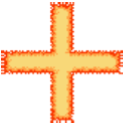
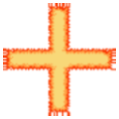
Add files via upload

Changed region(s): [[0.0, 0.0, 1.0, 1.0]]

diff --git a/Juego.cpp b/Juego.cpp
@@ -10,6 +10,11 @@ Juego::Juego()
 	_fondo.setTexture(_txtFondo);
 	//_fondo.setOrigin(_fondo.getGlobalBounds().width / 2, _fondo.getGlobalBounds().height / 2);
 	_fondo.setPosition(0, 0);
+	_txtFondoGameOver.loadFromFile("gameOver.jpg");
+	_fondoGameOver.setTexture(_txtFondoGameOver);
+
+	_fuegosV[0].rotarVertical();
+	_fuegosV[1].rotarVertical();
 
 	Enemigo* _enemigo1 = new Enemigo;
 	Enemigo* _enemigo2 = new Enemigo;
@@ -18,6 +23,7 @@ Juego::Juego()
 	_enemigos.push_back(*_enemigo1);
 	_enemigos.push_back(*_enemigo2);
 	_enemigos.push_back(*_enemigo3);
+
 	_vidas = 3;
 
 	Player* _player1 = new Player;
@@ -34,7 +40,7 @@ Juego::Juego()
 	_timer2 = 0;
 	_mapa1 = new Mapa;
 	randomNumero = 4;
-	_contadorCrear = 0;
+	_contadorCrear = 0;			//contar muerte de pj
 
 	_dosBombas = false;
 	_timerBoostBomba = 0;
@@ -62,11 +68,12 @@ void Juego::gamePlay()
 				_ventana1->close();
 			}
 		}
-		if (_victoria == true) {
+		/*if (_victoria == true) {
 			_ventana1->close();
-		}
+		}*/
 		_tiempoLimite--;
 		//CMD
+
 		list<Player>::iterator play;
 		for (play = _players.begin(); play != _players.end(); ++play) {
 			if (!play->getMuriendo()) {
@@ -79,7 +86,8 @@ void Juego::gamePlay()
 		}
 		//fin de las 3 vidas y partida, luego cambiar
 		if (_contadorCrear == 5) {
-			_ventana1->close();
+			//va pantalla de game over
+			_gameOver = true;
 		}
 		//crea nuevo pj, nueva vida en esquina
 		if (_contadorCrear % 2 != 0) {
@@ -96,10 +104,10 @@ void Juego::gamePlay()
 			}
 		}
 		_timerVelocidad--;
-		//Colision con boosterBOmba (20 seg)
 		if (_timerVelocidad <= 0) {
 			_acelerar = false;
 		}
+		//Colision con boosterBOmba (20 seg)
 		for (play = _players.begin(); play != _players.end(); ++play) {
 			if (_mapa1->comprobarColisionBoostBomba(*play)) {
 				_timerBoostBomba = 20 * 60;
@@ -139,6 +147,9 @@ void Juego::gamePlay()
 			if (_fuegos[i].getEstado()) {
 				_mapa1->comprobarColisionDestruir(_fuegos[i]);
 			}
+			if (_fuegosV[i].getEstado()) {
+				_mapa1->comprobarColisionDestruir(_fuegosV[i]);
+			}
 		}
 
 		//poner bomba, solo si no esta muriendo y naturalmente no muerto
@@ -174,20 +185,22 @@ void Juego::gamePlay()
 				_bombas[i].crearExplotar(estado);
 				_fuegos[i].setEstado(estado);
 				_fuegos[i].setSpritePosition(_bombas[i].getSprite().getPosition());
+				_fuegosV[i].setEstado(estado);
+				_fuegosV[i].setSpritePosition(_bombas[i].getSprite().getPosition());
 			}
 		}
 		for (int i = 0; i < 2; i++) {
-			if (_fuegos[i].getEstado()) {
+			if (_fuegos[i].getEstado() && _fuegosV[i].getEstado()) {
 				_fuegos[i].crearLlama();
+				_fuegosV[i].crearLlama();
 			}
 		}
 
 		//colision y muerte del pj, primero por fuego, luego por chocar enemigos
 		for (play = _players.begin(); play != _players.end(); ++play) {
 			for (int i = 0; i < 2; i++) {
-				if (_fuegos[i].isColision(*play) && _fuegos[i].getEstado()) {
-					play->setMuriendo(true);
-					
+				if ((_fuegos[i].isColision(*play) && _fuegos[i].getEstado()) || (_fuegosV[i].isColision(*play) && _fuegosV[i].getEstado())) {
+					play->setMuriendo(true);	
 				}
 			}
 		}
@@ -203,7 +216,7 @@ void Juego::gamePlay()
 		list<Enemigo>::iterator it2;
 		for (it2 = _enemigos.begin(); it2 != _enemigos.end(); ++it2) {
 			for (int i = 0; i < 2; i++) {
-				if (_fuegos[i].isColision(*it2) && _fuegos[i].getEstado() && it2->getMuerte() == false) {
+				if ((_fuegos[i].isColision(*it2) && _fuegos[i].getEstado() && it2->getMuerte() == false) || (_fuegosV[i].isColision(*it2) && _fuegosV[i].getEstado() && it2->getMuerte() == false)) {
 					it2->setEstado(false);
 				}
 			}
@@ -226,6 +239,7 @@ void Juego::gamePlay()
 				//ganar
 				//victoria();
 				_victoria = true;
+				_gameOver = true;
 			}
 		}
 		dibujar();
@@ -249,6 +263,9 @@ void Juego::dibujar()
 		if (_fuegos[i].getEstado()) {
 			_ventana1->draw(_fuegos[i]);
 		}
+		if (_fuegosV[i].getEstado()) {
+			_ventana1->draw(_fuegosV[i]);
+		}
 	}
 
 	_mapa1->dibujarFijos(_ventana1);
@@ -266,6 +283,9 @@ void Juego::dibujar()
 	list<Enemigo>::iterator it;
 	for (it = _enemigos.begin(); it != _enemigos.end(); ++it) {
 		_ventana1->draw(*it);
+	}
+	if (_gameOver) {
+		_ventana1->draw(_fondoGameOver);
 	}
 	_ventana1->display();
 }

diff --git a/Fuego.cpp b/Fuego.cpp
@@ -2,10 +2,10 @@
 
 Fuego::Fuego()
 {
-	_txt[0].loadFromFile("fuego.png");
-	_txt[1].loadFromFile("fuegoh.png");
-	_txt[2].loadFromFile("fuegov.png");
-	_sprite.setTexture(_txt[0]);
+	_txt.loadFromFile("fuegos1.png");
+	//_txt[1].loadFromFile("fuegoh.png");
+	//_txt[2].loadFromFile("fuegov.png");
+	_sprite.setTexture(_txt);
 	//_sprite.setPosition(800,600);
 	_sprite.setOrigin(_sprite.getGlobalBounds().width / 2, _sprite.getGlobalBounds().height / 2);
 	_estado = false;
@@ -30,40 +30,40 @@ FloatRect Fuego::getBounds() const
 	return _sprite.getGlobalBounds();
 }
 
-void Fuego::setTexturaNueva(int nTextura)
-{
-	_sprite.setTexture(_txt[nTextura]);
-}
-
 void Fuego::crearLlama()
 {
 	if (_timer == 119) {
 		_sonFuego.play();
 	}
 	if (_timer > 90) {
-		_txt->loadFromFile("fuego1.png");
-		_sprite.setTexture(*_txt);
+		//_txt->loadFromFile("fuego1.png");
+		//_sprite.setTexture(*_txt);
 		_timer--;
 	}
 	else if (_timer > 60) {
-		_txt->loadFromFile("fuego2.png");
-		_sprite.setTexture(*_txt);
+		//_txt->loadFromFile("fuego2.png");
+		//_sprite.setTexture(*_txt);
 		_timer--;
 	}
 	else if (_timer > 30) {
-		_txt->loadFromFile("fuego3.png");
-		_sprite.setTexture(*_txt);
+		//_txt->loadFromFile("fuego3.png");
+		//_sprite.setTexture(*_txt);
 		_timer--;
 	}
 	else if (_timer > 0) {
-		_txt->loadFromFile("fuego4.png");
-		_sprite.setTexture(*_txt);
+		//_txt->loadFromFile("fuego4.png");
+		//_sprite.setTexture(*_txt);
 		_timer--;
 	}
 	else if (_timer == 0) {
 		_estado = false;
-		_txt->loadFromFile("vacio.png");
-		_sprite.setTexture(*_txt);
+		//_txt->loadFromFile("vacio.png");
+		//_sprite.setTexture(*_txt);
 		_timer = 60 * 2;
 	}
+}
+
+void Fuego::rotarVertical()
+{
+	_sprite.setRotation(90);
 }

diff --git a/Juego.h b/Juego.h
@@ -33,6 +33,12 @@ private:
 	RenderWindow* _ventana1;
 	Sprite _fondo;
 	Texture _txtFondo;
+	Sprite _fondoGameOver;
+	Texture _txtFondoGameOver;
+
+	Text textoPuntaje;
+	Font fuenteTextoPuntaje;
+
 	//Player  _player1;
 	list <Player> _players;
 	list <Enemigo> _enemigos;
@@ -43,6 +49,7 @@ private:
 	bool _dosBombas;
 	int _timer;
 	Fuego* _fuegos = new Fuego[2];
+	Fuego* _fuegosV = new Fuego[2];
 	int _timer2;
 	Mapa* _mapa1;
 	int randomNumero;
@@ -56,6 +63,8 @@ private:
 	int _tiempoLimite;
 	char _nombre[4];
 	bool _victoria = false;
+
+	bool _gameOver = false;
 	SoundBuffer _bufBomba;
 	Sound _sonBomba;
 

diff --git a/Fuego.h b/Fuego.h
@@ -6,7 +6,7 @@ using namespace sf;
 class Fuego : public Drawable, public Colisionable
 {
 private:
-	Texture _txt[3];
+	Texture _txt;
 	Sprite _sprite;
 	bool _estado;
 	int _timer;
@@ -17,8 +17,8 @@ public:
 	void setSpritePosition(Vector2f posicion);
 	void draw(RenderTarget& target, RenderStates states) const override;
 	FloatRect getBounds() const override;
-	void setTexturaNueva(int nTextura);
 	void crearLlama();
+	void rotarVertical();
 
 	void setEstado(bool estado) { _estado = estado; }
 	bool getEstado() { return _estado; }
